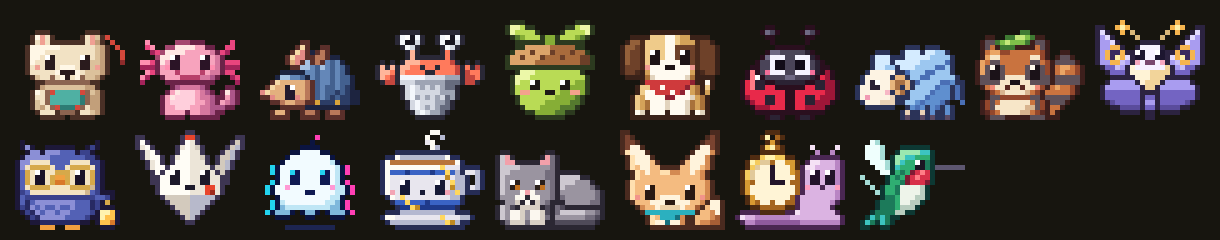
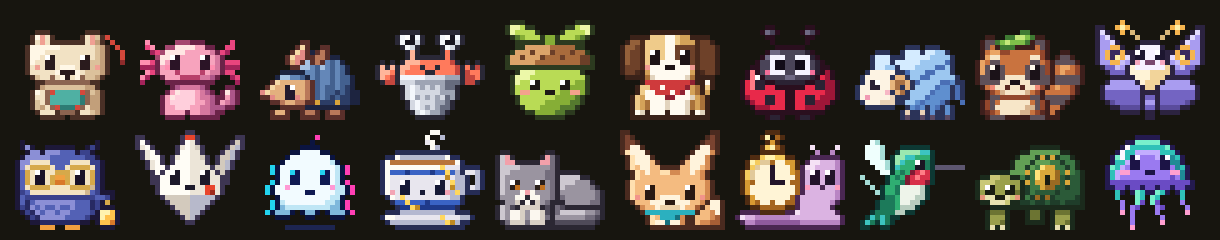
Hatch Vault and Drift
Copilot-Session: 3f1e7873-1b7e-482a-b00b-0bac6eb26bff

Changed region(s): [[0.7787, 0.5542, 0.9967, 0.9625]]

diff --git a/creatures/drift.js b/creatures/drift.js
@@ -1,0 +1,168 @@
+// Drift — legendary jellyfish of light. Many tentacles, one mind: coaches orchestrating agents in parallel.
+(function () {
+  const W = 20, H = 20, CX = 9.5;
+  const grid = () => Array.from({ length: H }, () => Array(W).fill('.'));
+  const px = (g, x, y, c) => { if (x >= 0 && x < W && y >= 0 && y < H) g[y][x] = c; };
+  const rowsOf = g => g.map(r => r.join(''));
+
+  // Bell: dome from row `top` to rim row `rim`, half-width `R`. Aurora: mint crown -> teal band -> lilac face zone, scalloped violet rim.
+  function bell(g, o = {}) {
+    const top = o.top ?? 1, rim = o.rim ?? 10, R = o.R ?? 9, dim = !!o.dim, C = o.C ?? 3;
+    // ellipse centred below the rim, so the bell flares gently out to its margin (dome, not ghost)
+    const R2 = R / Math.sqrt(1 - (C / (rim + C - top + 0.6)) ** 2);
+    const span = y => { const t = (rim + C - y) / (rim + C - top + 0.6); const hw = R2 * Math.sqrt(Math.max(0, 1 - t * t)); return [Math.round(CX - hw), Math.round(CX + hw) - 1]; };
+    const inside = (x, y) => { if (y < top || y > rim) return false; const [a, b] = span(y); return x >= a && x <= b; };
+    const H0 = rim - top;
+    for (let y = top; y <= rim; y++) {
+      const [a, b] = span(y);
+      for (let x = a; x <= b; x++) {
+        if (!inside(x - 1, y) || !inside(x + 1, y) || !inside(x, y - 1)) { px(g, x, y, 'o'); continue; }
+        // concentric aurora bands that follow the dome: r=1 at the crown edge, smaller toward the face
+        const dx = (x + 0.5 - CX) / R2, dy = (rim + C - y) / (rim + C - top + 0.6), r = Math.sqrt(dx * dx + dy * dy);
+        let c = y === rim ? 'v' : r > 0.86 ? 'm' : r > 0.76 ? 't' : r > 0.66 ? 'l' : 'u';
+        if (x + 0.5 - CX > R * 0.5 && y < rim) c = { m: 't', t: 'd', l: 'u', u: 'v' }[c];
+        if (x + 0.5 - CX < -R * 0.15 && x + 0.5 - CX > -R * 0.6 && r > 0.9) c = 'n';
+        if (dim) c = { m: 't', n: 'm', t: 'd', l: 'v', u: 'v', v: 'g', d: 'g' }[c] || c;
+        px(g, x, y, c);
+      }
+    }
+    // scalloped margin under the rim: little lobes with dark gaps
+    const [a, b] = span(rim);
+    for (let x = a; x <= b; x++) px(g, x, rim + 1, (x - a) % 3 === 1 ? 'o' : (x === a || x === b) ? 'o' : (dim ? 'g' : 'v'));
+    for (let x = a + 1; x < b; x++) if ((x - a) % 3 !== 1) px(g, x, rim + 2, 'o');
+    if (!dim) [[-5, 2], [-6, 3], [-6, 4]].forEach(([dx, dy]) => px(g, Math.round(CX + dx), top + dy, 'w'));
+    return { top, rim, span, a, b };
+  }
+  function face(g, b, o = {}) {
+    const y = b.rim - 5, eyes = o.eyes || 'open';
+    const draw = (x, rows, dy = 0) => rows.forEach((r, j) => [...r].forEach((c, i) => { if (c !== '.') px(g, x + i, y + j + dy, c); }));
+    const E = { open: ['ew', 'ee', 'ee'], blink: ['..', '..', 'ee'], sleep: ['..', '..', 'ee'], up: ['ew', 'ee', '..'], side: ['ee', 'ew', 'ee'] }[eyes];
+    if (eyes === 'happy') { draw(5, ['.e.', 'e.e'], 1); draw(12, ['.e.', 'e.e'], 1); }
+    else { draw(6, E); draw(12, E); }
+    if (o.blush !== false) [4, 5, 14, 15].forEach(x => px(g, x, y + 3, 'p'));
+    const M = { idle: [[9, 'ee']], open: [[9, 'ee'], [9, 'pp', 1]], smile: [[8, 'e..e'], [9, 'ee', 1]], none: [], hmm: [[10, 'e']] }[o.mouth || 'idle'];
+    M.forEach(([x, str, dy]) => [...str].forEach((c, i) => { if (c !== '.') px(g, x + i, y + 3 + (dy || 0), c); }));
+  }
+  // Tentacles: [baseX, length, phase, kind]. Thin outer threads + two ribbon oral arms that taper to a glowing tip.
+  const TENTACLES = [[3, 5, 0.3, 't'], [7, 8, 1.9, 'arm'], [11, 7, 4.3, 'arm'], [16, 5, 5.4, 't']];
+  function tentacles(g, b, o = {}) {
+    const t = o.t || 0, amp = o.amp ?? 1, grow = o.grow ?? 1, only = o.only ?? 4, y0 = b.rim + 2;
+    TENTACLES.slice(0, only).forEach(([x0, len, ph, kind], i) => {
+      const L = Math.min(H - y0, Math.round(len * (Array.isArray(grow) ? grow[i] : grow)));
+      for (let j = 0; j < L; j++) {
+        const side = o.sym ? (x0 < CX ? -1 : 1) : 1, phase = o.sym ? 0 : ph;
+        const x = x0 + Math.round(side * amp * 1.3 * Math.sin(j * 0.55 + phase + t) * Math.min(1, j / 2));
+        const f = j / Math.max(1, len - 1), tip = j === L - 1 && j > 0;
+        if (kind === 'arm') {
+          // ribbon: a light core with a ruffle that flips side every other row
+          // ribbon: two pixels wide near the bell, thinning to a single glowing thread
+          px(g, x, y0 + j, tip ? 'p' : f < 0.4 ? 'm' : 'u');
+          if (!tip && j < 4) px(g, x + 1, y0 + j, j < 2 ? 't' : 'v');
+        } else px(g, x, y0 + j, tip ? 'p' : f < 0.5 ? 't' : 'u');
+      }
+    });
+  }
+  const Z = ['nnnnn', '...n.', '..n..', '.n...', 'nnnnn'];
+  const Q = ['.nn.', 'n..n', '..n.', '....', '..n.'];
+  const SPARK = [[0, -1], [-1, 0], [0, 0], [1, 0], [0, 1]];
+  function drift(o = {}) {
+    const g = grid(), dy = o.dy || 0, pulse = o.pulse || 0;
+    // pulse > 0: the bell squeezes (narrower, taller crown); pulse < 0: it relaxes wide and low
+    const b = bell(g, { top: 1 + dy - Math.max(0, pulse), rim: 10 + dy, R: 9 - pulse, dim: o.dim });
+    tentacles(g, b, o);
+    face(g, b, o);
+    (o.glyphs || []).forEach(([rows, x, y]) => rows.forEach((r, j) => [...r].forEach((c, i) => { if (c !== '.') px(g, x + i, y + j, c); })));
+    (o.sparks || []).forEach(([x, y, c]) => SPARK.forEach(([sx, sy]) => px(g, x + sx, y + sy, sx || sy ? (c || 'n') : 'w')));
+    (o.extra || []).forEach(([x, y, c]) => px(g, x, y, c));
+    return rowsOf(g);
+  }
+
+  const sprites = {
+    idle: drift(),
+    idle2: drift({ pulse: 1, t: 1.2 }),
+    blink: drift({ eyes: 'blink' }),
+    talk: drift({ mouth: 'open', pulse: 1, t: 0.6 }),
+    talk2: drift({ t: 0.3 }),
+    happy: drift({ eyes: 'happy', mouth: 'smile', amp: 1.2, sparks: [[1, 2], [18, 3, 'm']] }),
+    happy2: drift({ eyes: 'happy', mouth: 'smile', dy: -1, t: 1.4, amp: 1.2, sparks: [[2, 5, 'm'], [17, 1]] }),
+    think: drift({ eyes: 'up', mouth: 'hmm', amp: 0.4, glyphs: [[Q, 16, 0]] }),
+    think2: drift({ eyes: 'up', mouth: 'hmm', amp: 0.4, t: 0.8, glyphs: [[Q, 16, 0]] }),
+    sleep: drift({ eyes: 'sleep', blush: false, dim: true, dy: 2, amp: 0.3, grow: 0.7, glyphs: [[Z, 15, 0]] }),
+    sleep2: drift({ eyes: 'sleep', blush: false, dim: true, dy: 2, amp: 0.3, grow: 0.7, t: 1, pulse: 1, glyphs: [[Z, 14, 0]] }),
+    fidget: drift({ eyes: 'side', sym: true, amp: 1.2, t: 0.6 }),
+    fidget2: drift({ eyes: 'side', sym: true, amp: 0.8, t: 3.6, pulse: 1 }),
+  };
+
+  PatchDex.register({
+    id: 'drift',
+    name: 'Drift',
+    species: 'aurora jellyfish',
+    rarity: 'legendary',
+    blurb: 'Unhurried and luminous; it moves many arms at once and never loses the thread.',
+    coaching: 'Orchestrating agents in parallel: split work into independent lanes, then gather and verify the results.',
+    voice: 'these three tasks do not touch. send them out together.',
+    hatch: 'The egg floats up, turns to aurora glass, dissolves into falling light, and Drift unfurls one tentacle at a time.',
+    palette: {
+      o: '#241a4f', g: '#3b2f86', v: '#6a4bc4', u: '#9a7af0',
+      d: '#1f8a95', t: '#2fc1b8', m: '#78f0cc', n: '#c8fff0',
+      w: '#fdf8ff', l: '#c3adff', e: '#1c1446', p: '#ff9fd0',
+    },
+    sprites,
+    loop: [['idle', 16], ['idle2', 4], ['idle', 16], ['blink', 2], ['idle', 8], ['idle2', 4], ['idle', 14], ['fidget', 4], ['fidget2', 4], ['fidget', 4], ['idle', 10], ['blink', 2], ['idle', 6]],
+    entrance(k) {
+      const out = k.eggIntro(), F = (g, ms, note) => out.push(k.f(g, ms, note ? { note } : {}));
+      const EX = k.eggHome.x, EY = k.eggHome.y;
+      const shadow = (g, w, c = 'g') => { for (let x = 14 - (w >> 1); x < 14 + (w >> 1); x++) k.px(g, x, 21, c); return g; };
+      // 1. The cracked egg lifts off the ground; its shadow shrinks into a soft violet glow.
+      F(shadow(k.egg(k.EGG_C2, 0, -1), 10), 120, 'lift');
+      F(shadow(k.egg(k.EGG_C2, 0, -2), 8), 120);
+      F(shadow(k.egg(k.EGG_C2, 0, -4), 6), 160);
+      // 2. The shell turns to aurora glass in a bright sweep from the crown down.
+      const GLASS = { 0: 'o', 1: 'u', 2: 'n', 3: 'v', 4: 'm', 5: 't', 6: 'p', 7: 'w' };
+      const BANDS = ['n', 'm', 't', 'l', 'u', 'v', 'u', 'l', 'm'];
+      // diagonal aurora bands; ph slides them through the glass
+      const glass = (dy, ph, upto = 99) => {
+        const g = k.egg(k.EGG_C2, 0, dy);
+        k.EGG_C2.forEach((r, j) => [...r].forEach((c, i) => {
+          if (c === '.' || j > upto) return;
+          const ch = j === upto ? 'w' : c === '0' ? 'o' : c === '2' ? 'n' : ph == null ? GLASS[c] : BANDS[(j + (i >> 1) + 90 - ph) % 9];
+          k.px(g, EX + i, EY + dy + j, ch);
+        }));
+        return shadow(g, 4);
+      };
+      F(glass(-4, null, 4), 130, 'glass');
+      F(glass(-4, null, 9), 130);
+      F(glass(-4, null), 140);
+      // 3. Aurora bands ripple through the glass egg while it bobs.
+      F(glass(-4, 0), 110, 'ripple'); F(glass(-5, 3), 110); F(glass(-5, 6), 110); F(glass(-4, 8), 110);
+      // 4. A white-hot flash: the glass is all light.
+      F(shadow(k.egg(k.EGG, 0, -4, { map: { 0: 'l', 1: 'w', 2: 'w', 3: 'n', 4: 'w', 5: 'n', 6: 'w', 7: 'w' } }), 6, 'u'), 150, 'flash');
+      // 5. The shell bursts into motes that drift outward and fall; light pools into a growing bell.
+      const SHELL = [];
+      k.EGG.forEach((r, j) => [...r].forEach((c, i) => { if (c === '0' && (i + j) % 2 === 0) SHELL.push([i - 5.5, j - 6.5]); }));
+      const MOTE = ['n', 'm', 'l', 'p', 'w'];
+      const motes = (g, t) => SHELL.forEach(([x, y], n) => {
+        if (t > 1 && n % 3 === 0) return;
+        if (t > 2 && n % 3 === 1) return;
+        const s = 1 + 0.45 * t;
+        k.px(g, Math.round(14 + x * s), Math.round(EY - 4 + 6.5 + y * s + 0.5 * t * t), MOTE[(n + t) % 5]);
+      });
+      const bellOnly = (o, eyes) => { const g = grid(); const b = bell(g, o); if (eyes) face(g, b, { eyes, blush: o.blush }); return rowsOf(g); };
+      const grow = [[{ top: 5, rim: 10, R: 5 }, 1], [{ top: 3, rim: 10, R: 7 }, 2], [{ top: 1, rim: 10, R: 9 }, 3]];
+      grow.forEach(([o, t], i) => { const g = k.at(bellOnly(o, i === 2 ? 'sleep' : null), 0, 0); motes(g, t); F(g, i === 2 ? 160 : 120, i ? null : 'burst'); });
+      // 6. Tentacles unfurl one at a time while the last motes fall like snow.
+      const SNOW = [[3, 4], [24, 6], [6, 10], [22, 12], [2, 15], [25, 2]];
+      const snow = (g, t) => { SNOW.forEach(([x, y], n) => { if (n + t < 9) k.px(g, x + (t % 2), y + t * 2, MOTE[n % 5]); }); return g; };
+      [[0.5, 0, 0, 0], [1, 0.5, 0, 0], [1, 1, 0, 0.5], [1, 1, 0.5, 1], [1, 1, 1, 1]].forEach((gr, t) => {
+        F(snow(k.at(drift({ eyes: 'sleep', grow: gr, amp: 0.6, t: t * 0.4 }), 0, 0), t), 100, t ? null : 'unfurl');
+      });
+      // 7. It wakes, takes a first breath, and glows with joy.
+      F(k.at(drift({ eyes: 'blink' })), 160);
+      F(k.at('idle'), 320, 'awake');
+      F(k.at('idle2'), 150); F(k.at('idle'), 150);
+      F(k.at('happy'), 220); F(k.at('happy2'), 420, 'joy');
+      F(k.at('idle'), 300);
+      return out;
+    },
+  });
+})();

diff --git a/creatures/vault.js b/creatures/vault.js
@@ -1,0 +1,160 @@
+// Vault — sturdy tortoise whose shell is a vault door. Coaches security: secrets, permissions, least privilege.
+(function () {
+  const W = 22, H = 18;
+  // put(rows, [x, y, art]...): stamp art; ' ' and '.' keep the pixel underneath.
+  const put = (rows, ...stamps) => {
+    const g = rows.map(r => [...r]);
+    stamps.forEach(([x, y, art]) => art.forEach((r, j) => [...r].forEach((c, i) => {
+      if (c !== ' ' && c !== '.' && g[y + j] && x + i >= 0 && x + i < W) g[y + j][x + i] = c;
+    })));
+    return g.map(r => r.join(''));
+  };
+  const EMPTY = Array(H).fill('.'.repeat(W));
+
+  // Shell dome (x6-21) with the vault door: dark ring, eight gold rivets, gold dial + keyhole.
+  const SHELL = [
+    '......................',
+    '...........oooooo.....',
+    '.........oolllllloo...',
+    '........olllnananggo..',
+    '.......olllnlllggnggo.',
+    '.......ollnlgyaaggngo.',
+    '......olllagyaaargagdo',
+    '......olggngyaeardnddo',
+    '......ogggagaaerrdaddo',
+    '......ogggnggarrddnddo',
+    '......ogggngddddnddddo',
+    '......oggggnrnrnddddno',
+    '.....onndnndnndnndnnno',
+    '......oooooooooooooooo',
+  ];
+  // Dial (5x5 at x12,y5) — keyhole turns: vertical (open), diagonal, horizontal (locked).
+  const DIAL = {
+    v: ['.yaa.', 'yaaar', 'yaear', 'aaerr', '.arr.'],
+    d: ['.yaa.', 'yaaar', 'yaear', 'aaaer', '.arr.'],
+    h: ['.yaa.', 'yaaar', 'yaeer', 'aaarr', '.arr.'],
+    d2: ['.yaa.', 'yaaar', 'yaear', 'aeaar', '.arr.'],
+  };
+  const HEAD = [
+    '...oooo...',
+    '.oosskkoo.',
+    'ossskkkkko',
+    'oskkkkkkko',
+    'okkkkkkhho',
+    'okcccccsho',
+    '.oocccsoo.',
+    '...oooo...',
+  ];
+  // Face patches in head coordinates.
+  const EYES = {
+    open: [[2, 3, ['we']], [2, 4, ['ee']], [6, 3, ['we']], [6, 4, ['ee']]],
+    blink: [[2, 4, ['ee']], [6, 4, ['ee']]],
+    up: [[3, 2, ['we']], [3, 3, ['ee']], [7, 2, ['we']], [7, 3, ['ee']]],
+    right: [[3, 3, ['we']], [3, 4, ['ee']], [7, 3, ['we']], [7, 4, ['ee']]],
+    happy: [[1, 2, ['kek']], [1, 3, ['eke']], [6, 2, ['kek']], [6, 3, ['eke']]],
+    sleep: [[2, 4, ['ee']], [6, 4, ['ee']]],
+  };
+  const MOUTH = {
+    idle: [[4, 5, ['ee']]],
+    open: [[4, 5, ['ee']], [4, 6, ['pp']]],
+    smile: [[3, 5, ['eeee']], [3, 6, ['kppk']]],
+    hmm: [[5, 5, ['e']]],
+    none: [],
+  };
+  const BLUSH = [[1, 5, ['p']], [8, 5, ['p']]];
+  const BLUSH_HIGH = [[1, 4, ['p']], [8, 4, ['p']]];
+  const LEG = ['ohhho', 'okkko', 'okkho', 'ococo'];
+  const Z = ['ccccc', '...c.', '..c..', '.c...', 'ccccc'];
+  const Q = ['.aay', 'a..a', '..a.', '....', '..a.'];
+
+  function vault(o = {}) {
+    const dy = o.dy || 0, hx = o.hx || 0, hy = (o.hy || 0) + dy;
+    const head = put(HEAD, ...(EYES[o.eyes || 'open']), ...(MOUTH[o.mouth || 'idle']), ...(o.blush === false ? [] : o.blush === 'high' ? BLUSH_HIGH : BLUSH));
+    let g = put(EMPTY, [0, dy, SHELL], [12, 5 + dy, DIAL[o.dial || 'v']]);
+    if (o.legs !== 'tucked') g = put(g, [10, 14 + dy, ['ohho', 'ohho', 'oooo']], [2, 14 + dy - (o.liftF || 0), LEG], [15, 14 + dy - (o.liftB || 0), LEG]);
+    g = put(g, [hx, 6 + hy, head]);
+    (o.extra || []).forEach(s => { g = put(g, s); });
+    return g;
+  }
+
+  const sprites = {
+    idle: vault(),
+    idle2: vault({ hy: 1 }),
+    blink: vault({ eyes: 'blink' }),
+    talk: vault({ hy: -1, mouth: 'open' }),
+    talk2: vault({ mouth: 'idle' }),
+    happy: vault({ hy: -1, eyes: 'happy', mouth: 'smile', blush: 'high' }),
+    happy2: vault({ dy: -1, hy: -2, eyes: 'happy', mouth: 'smile', blush: 'high', extra: [[18, 0, ['y']], [21, 2, ['y']]] }),
+    think: vault({ hy: -1, eyes: 'up', mouth: 'hmm', dial: 'd', extra: [[2, 0, Q]] }),
+    think2: vault({ hy: -1, eyes: 'up', mouth: 'hmm', dial: 'h', extra: [[2, 0, Q]] }),
+    sleep: vault({ dy: 4, eyes: 'sleep', mouth: 'none', blush: false, dial: 'h', legs: 'tucked', extra: [[1, 0, Z]] }),
+    sleep2: vault({ dy: 4, eyes: 'sleep', mouth: 'none', blush: false, dial: 'h', legs: 'tucked', extra: [[3, 0, Z]] }),
+    fidget: vault({ eyes: 'right', dial: 'd' }),
+    fidget2: vault({ eyes: 'right', dial: 'h', extra: [[17, 4, ['y']]] }),
+  };
+
+  PatchDex.register({
+    id: 'vault',
+    name: 'Vault',
+    species: 'vault-door tortoise',
+    rarity: 'rare',
+    blurb: 'Slow, steady and impossible to rush; it checks every lock twice and never once regrets it.',
+    coaching: 'Security habits: keep secrets out of prompts and logs, and grant agents the least privilege that works.',
+    voice: 'scope the token down. it only needs read access.',
+    hatch: 'A keyhole appears on the egg, a gold key turns with a click, and the shell swings open like a vault door.',
+    palette: {
+      o: '#1b2a1c', n: '#1f3d2a', d: '#2b5a38', g: '#3d7a45', l: '#62a055',
+      y: '#ffe27a', a: '#d9a83a', r: '#9a6a22',
+      s: '#c9c876', k: '#9aa04c', h: '#6c7432',
+      e: '#1a1d12', w: '#ffffff', p: '#e6957a', c: '#e8e2b0',
+    },
+    sprites,
+    loop: [['idle', 24], ['blink', 2], ['idle', 10], ['idle2', 6], ['idle', 12], ['blink', 2], ['idle', 8], ['fidget', 4], ['fidget2', 4], ['fidget', 3], ['idle', 10]],
+    entrance(k) {
+      const out = k.eggIntro(), F = (g, ms, note) => out.push(k.f(g, ms, note ? { note } : {}));
+      const EX = k.eggHome.x, EY = k.eggHome.y;
+      // A keyhole plate on the egg's front, and a little gold key.
+      const PLATE = ['..yar..', '.yaaar.', 'yaeeear', 'yaeeear', 'aaaearr', '.aaerr.', '..rrr..'];
+      const KEY = ['.....ayy.', 'aaaaaay.y', 'a.a...ayy'];
+      const KEY_TURNED = ['.y.', 'yay', 'yay', 'yay', '.y.'];
+      const door = k.stamp(k.blank(12, 14), k.EGG, 0, 0);
+      k.stamp(door, PLATE, 3, 4);
+      const eggWith = () => k.stamp(k.egg(k.EGG), PLATE, EX + 3, EY + 4);
+      // 1. The keyhole appears; the key slides in from the right and turns.
+      F(eggWith(), 300, 'a keyhole');
+      [[22, 140], [18, 120], [14, 260]].forEach(([x, ms]) => { const g = eggWith(); k.stamp(g, KEY, x, EY + 5); k.stamp(g, PLATE, EX + 3, EY + 4); F(g, ms); });
+      { const g = eggWith(); k.stamp(g, KEY_TURNED, 14, EY + 4); [[20, EY + 3], [21, EY + 1], [10, EY + 2]].forEach(([x, y]) => k.px(g, x, y, 'y')); F(g, 260, 'click'); }
+      // 2. The front of the egg swings open on a left hinge (foreshortened), revealing a dark vault.
+      const swing = (w, back, glint) => {
+        const g = k.egg(k.EGG, 0, 0, { map: { 1: 'e', 2: 'e', 3: 'e', 4: 'e', 5: 'e', 6: 'e', 7: 'e' } });
+        if (glint) glint.forEach(([x, y, c]) => k.px(g, EX + x, EY + y, c));
+        for (let j = 0; j < w; j++) {
+          const sx = Math.min(11, Math.floor((j + 0.5) * 12 / w));
+          for (let y = 0; y < 14; y++) {
+            const c = door[y][sx]; if (c === '.') continue;
+            const x = back ? EX - w + j : EX + j;
+            k.px(g, x, EY + y, back ? (c === '0' || j === 0 ? '0' : '3') : c);
+          }
+        }
+        return g;
+      };
+      const GLINT = [[5, 10, 'a'], [7, 11, 'y'], [3, 11, 'r']];
+      F(swing(9, false), 120); F(swing(5, false), 110); F(swing(2, false, GLINT), 110); F(swing(4, true, GLINT), 260);
+      // 3. Eyes in the dark, then Vault walks out of its vault.
+      { const g = swing(4, true, GLINT); k.stamp(g, ['we..we', 'ee..ee'], EX + 3, EY + 6); F(g, 320); }
+      const SLAB = (g, tip = 0) => { for (let y = 0; y < 12 - tip; y++) for (let x = 0; x < 4; x++) k.px(g, 3 + x + (tip ? Math.floor(y / 3) - 1 : 0), 9 + tip + y, x === 0 || y === 0 || y === 11 - tip ? '0' : '3'); return g; };
+      { const g = swing(4, true, GLINT); k.stamp(g, put(HEAD, ...EYES.open, ...MOUTH.idle, ...BLUSH), EX + 1, EY + 6); F(g, 260); }
+      F(k.over(SLAB(k.blank()), vault({ liftF: 1 }), 5, 0), 140);
+      F(k.over(SLAB(k.blank()), vault({ liftB: 1 }), 3, 0), 140);
+      F(k.over(SLAB(k.blank(), 3), vault({ liftF: 1 }), 1, 0), 140);
+      { const g = k.at(vault({ dy: 1 })); [[1, 21, '3'], [2, 21, '0'], [4, 20, '3'], [0, 20, '0']].forEach(([x, y, c]) => k.px(g, x, y, c)); F(g, 110); }
+      // 4. The dial on its back spins... and locks.
+      ['d', 'h', 'd2'].forEach(d => F(k.at(vault({ eyes: 'right', dial: d })), 80));
+      { const g = k.at(vault({ eyes: 'right', dial: 'v' })); [[14, 7], [20, 7], [14, 13], [20, 13]].forEach(([x, y]) => k.px(g, x, y, 'y')); F(g, 300, 'locked'); }
+      // 5. Happy little hop, then settle.
+      F(k.at('happy'), 220); F(k.at('happy2'), 150); F(k.at('happy'), 240);
+      F(k.at('idle'), 400);
+      return out;
+    },
+  });
+})();

diff --git a/roster.js b/roster.js
@@ -1,2 +1,2 @@
 // Order shown in the dex. Each id loads creatures/<id>.js.
-window.PATCH_ROSTER = ['patch', 'axo', 'rivet', 'thimble', 'sprig', 'scout', 'dotty', 'skein', 'pon', 'wick', 'lumen', 'fold', 'byte', 'tsugi', 'mochi', 'hush', 'tock', 'zip'];
+window.PATCH_ROSTER = ['patch', 'axo', 'rivet', 'thimble', 'sprig', 'scout', 'dotty', 'skein', 'pon', 'wick', 'lumen', 'fold', 'byte', 'tsugi', 'mochi', 'hush', 'tock', 'zip', 'vault', 'drift'];

diff --git a/README.md b/README.md
@@ -62,7 +62,7 @@ Each creature specializes in one habit, but all of them coach the whole set.
 
 ## The dex
 
-<!-- count -->18<!-- /count --> creatures so far. Every GIF below is rendered from the creature's source file by `scripts/media.py`: shared egg, its own entrance, then a few seconds of its idle life.
+<!-- count -->20<!-- /count --> creatures so far. Every GIF below is rendered from the creature's source file by `scripts/media.py`: shared egg, its own entrance, then a few seconds of its idle life.
 
 <!-- dex:start -->
 <table>
@@ -76,14 +76,16 @@ Each creature specializes in one habit, but all of them coach the whole set.
 <tr><td><img src="docs/media/skein.gif" width="224" alt="Skein hatching"></td><td><b>#008 Skein</b><br><sub>yarn-wool sheep</sub><br>★ common · 6.1%</td><td><b>Coaches:</b> Long sessions: notice when context has tangled, summarize, and /compact before it knots.<br><br><i>“this thread is getting long. want to wind it up?”</i><br><br><sub><b>Hatch:</b> A strand of yarn unspools from the crack, the egg unravels into a ball, and the ball fluffs up into Skein.</sub></td></tr>
 <tr><td><img src="docs/media/pon.gif" width="224" alt="Pon hatching"></td><td><b>#009 Pon</b><br><sub>leaf-cap tanuki</sub><br>★★ uncommon · 5.6%</td><td><b>Coaches:</b> Prompt specificity: name the target, the constraints, and what done looks like.<br><br><i>“say what it should become, not just what to change.”</i><br><br><sub><b>Hatch:</b> The egg vanishes in a puff of smoke, a leaf flutters down, and Pon is standing there mid-pose.</sub></td></tr>
 <tr><td><img src="docs/media/wick.gif" width="224" alt="Wick hatching"></td><td><b>#010 Wick</b><br><sub>dusk moth</sub><br>★★ uncommon · 5.6%</td><td><b>Coaches:</b> Before building, look for the gaps: missing acceptance criteria, unstated edge cases, undefined done.<br><br><i>“something here is still unlit. what counts as done?”</i><br><br><sub><b>Hatch:</b> The crack glows like a lamp, the shell softens into a silk cocoon, and Wick unfolds its wings.</sub></td></tr>
-<tr><td><img src="docs/media/lumen.gif" width="224" alt="Lumen hatching"></td><td><b>#011 Lumen</b><br><sub>lantern owl scholar</sub><br>★★★ rare · 4.3%</td><td><b>Coaches:</b> Reviewing diffs: read what the agent changed, line by line, before you merge.<br><br><i>“read the diff before you merge. all of it.”</i><br><br><sub><b>Hatch:</b> Night falls, the egg glows like a lantern, and its lid lifts as Lumen flaps out.</sub></td></tr>
-<tr><td><img src="docs/media/fold.gif" width="224" alt="Fold hatching"></td><td><b>#012 Fold</b><br><sub>origami crane</sub><br>★★★ rare · 4.3%</td><td><b>Coaches:</b> Plans before cutting code: sketches the steps, names the creases (interfaces, edge cases, order of work), and only then lets you fold.<br><br><i>“measure twice, fold once. what are the steps?”</i><br><br><sub><b>Hatch:</b> The egg flattens into a square sheet, then folds step by step — square, triangle, kite, crane — each crease flashing as it lands.</sub></td></tr>
-<tr><td><img src="docs/media/byte.gif" width="224" alt="Byte hatching"></td><td><b>#013 Byte</b><br><sub>glitch ghost</sub><br>★★★ rare · 4.3%</td><td><b>Coaches:</b> Calibrating autonomy: let the agent run on well-scoped, reversible work; keep a hand on it for anything risky or vague.<br><br><i>“scoped and reversible? let it run. otherwise, hold the leash.”</i><br><br><sub><b>Hatch:</b> The egg dissolves into static, scanlines sweep, and Byte snaps into focus as its colors converge.</sub></td></tr>
-<tr><td><img src="docs/media/tsugi.gif" width="224" alt="Tsugi hatching"></td><td><b>#014 Tsugi</b><br><sub>kintsugi teacup spirit</sub><br>★★★★ legendary · 4.0%</td><td><b>Coaches:</b> Turns mistakes into lessons: asks what broke, what the fix taught you, and what to write down so the repair makes you stronger.<br><br><i>“that bug is a seam now. what did it teach you?”</i><br><br><sub><b>Hatch:</b> The egg shatters outward, the pieces hang in the air, drift back and reform as a teacup, gold traces every crack, steam rises, and Tsugi opens its eyes.</sub></td></tr>
+<tr><td><img src="docs/media/lumen.gif" width="224" alt="Lumen hatching"></td><td><b>#011 Lumen</b><br><sub>lantern owl scholar</sub><br>★★★ rare · 3.2%</td><td><b>Coaches:</b> Reviewing diffs: read what the agent changed, line by line, before you merge.<br><br><i>“read the diff before you merge. all of it.”</i><br><br><sub><b>Hatch:</b> Night falls, the egg glows like a lantern, and its lid lifts as Lumen flaps out.</sub></td></tr>
+<tr><td><img src="docs/media/fold.gif" width="224" alt="Fold hatching"></td><td><b>#012 Fold</b><br><sub>origami crane</sub><br>★★★ rare · 3.2%</td><td><b>Coaches:</b> Plans before cutting code: sketches the steps, names the creases (interfaces, edge cases, order of work), and only then lets you fold.<br><br><i>“measure twice, fold once. what are the steps?”</i><br><br><sub><b>Hatch:</b> The egg flattens into a square sheet, then folds step by step — square, triangle, kite, crane — each crease flashing as it lands.</sub></td></tr>
+<tr><td><img src="docs/media/byte.gif" width="224" alt="Byte hatching"></td><td><b>#013 Byte</b><br><sub>glitch ghost</sub><br>★★★ rare · 3.2%</td><td><b>Coaches:</b> Calibrating autonomy: let the agent run on well-scoped, reversible work; keep a hand on it for anything risky or vague.<br><br><i>“scoped and reversible? let it run. otherwise, hold the leash.”</i><br><br><sub><b>Hatch:</b> The egg dissolves into static, scanlines sweep, and Byte snaps into focus as its colors converge.</sub></td></tr>
+<tr><td><img src="docs/media/tsugi.gif" width="224" alt="Tsugi hatching"></td><td><b>#014 Tsugi</b><br><sub>kintsugi teacup spirit</sub><br>★★★★ legendary · 2.0%</td><td><b>Coaches:</b> Turns mistakes into lessons: asks what broke, what the fix taught you, and what to write down so the repair makes you stronger.<br><br><i>“that bug is a seam now. what did it teach you?”</i><br><br><sub><b>Hatch:</b> The egg shatters outward, the pieces hang in the air, drift back and reform as a teacup, gold traces every crack, steam rises, and Tsugi opens its eyes.</sub></td></tr>
 <tr><td><img src="docs/media/mochi.gif" width="224" alt="Mochi hatching"></td><td><b>#015 Mochi</b><br><sub>loaf-shaped smoke cat</sub><br>★ common · 6.1%</td><td><b>Coaches:</b> Knowing when to stop: take a break, wrap up, start a fresh session.<br><br><i>“good place to stop. save it and start fresh.”</i><br><br><sub><b>Hatch:</b> The egg bottom becomes a little box; Mochi climbs in, turns once, and loafs.</sub></td></tr>
 <tr><td><img src="docs/media/hush.gif" width="224" alt="Hush hatching"></td><td><b>#016 Hush</b><br><sub>big-eared fennec kit</sub><br>★ common · 6.1%</td><td><b>Coaches:</b> Asking clarifying questions: listen fully, confirm the goal, then act.<br><br><i>“before we start: what does done look like here?”</i><br><br><sub><b>Hatch:</b> Two huge ears poke out of the crack and listen; then the egg falls away.</sub></td></tr>
 <tr><td><img src="docs/media/tock.gif" width="224" alt="Tock hatching"></td><td><b>#017 Tock</b><br><sub>pocket-watch snail</sub><br>★★ uncommon · 5.6%</td><td><b>Coaches:</b> Performance and patience: measure before you optimize, then measure again after.<br><br><i>“time it first. then we will know what is slow.”</i><br><br><sub><b>Hatch:</b> The egg cracks, rewinds itself whole, cracks again, rolls into a pocket watch, and Tock slides out.</sub></td></tr>
 <tr><td><img src="docs/media/zip.gif" width="224" alt="Zip hatching"></td><td><b>#018 Zip</b><br><sub>hummingbird</sub><br>★★ uncommon · 5.6%</td><td><b>Coaches:</b> Tight feedback loops: make the smallest change, run it, look, and go again.<br><br><i>“small change. run it. again. faster.”</i><br><br><sub><b>Hatch:</b> Something green streaks past until the egg spins, then the top pops off and Zip is already hovering.</sub></td></tr>
+<tr><td><img src="docs/media/vault.gif" width="224" alt="Vault hatching"></td><td><b>#019 Vault</b><br><sub>vault-door tortoise</sub><br>★★★ rare · 3.2%</td><td><b>Coaches:</b> Security habits: keep secrets out of prompts and logs, and grant agents the least privilege that works.<br><br><i>“scope the token down. it only needs read access.”</i><br><br><sub><b>Hatch:</b> A keyhole appears on the egg, a gold key turns with a click, and the shell swings open like a vault door.</sub></td></tr>
+<tr><td><img src="docs/media/drift.gif" width="224" alt="Drift hatching"></td><td><b>#020 Drift</b><br><sub>aurora jellyfish</sub><br>★★★★ legendary · 2.0%</td><td><b>Coaches:</b> Orchestrating agents in parallel: split work into independent lanes, then gather and verify the results.<br><br><i>“these three tasks do not touch. send them out together.”</i><br><br><sub><b>Hatch:</b> The egg floats up, turns to aurora glass, dissolves into falling light, and Drift unfurls one tentacle at a time.</sub></td></tr>
 </table>
 <!-- dex:end -->
 
